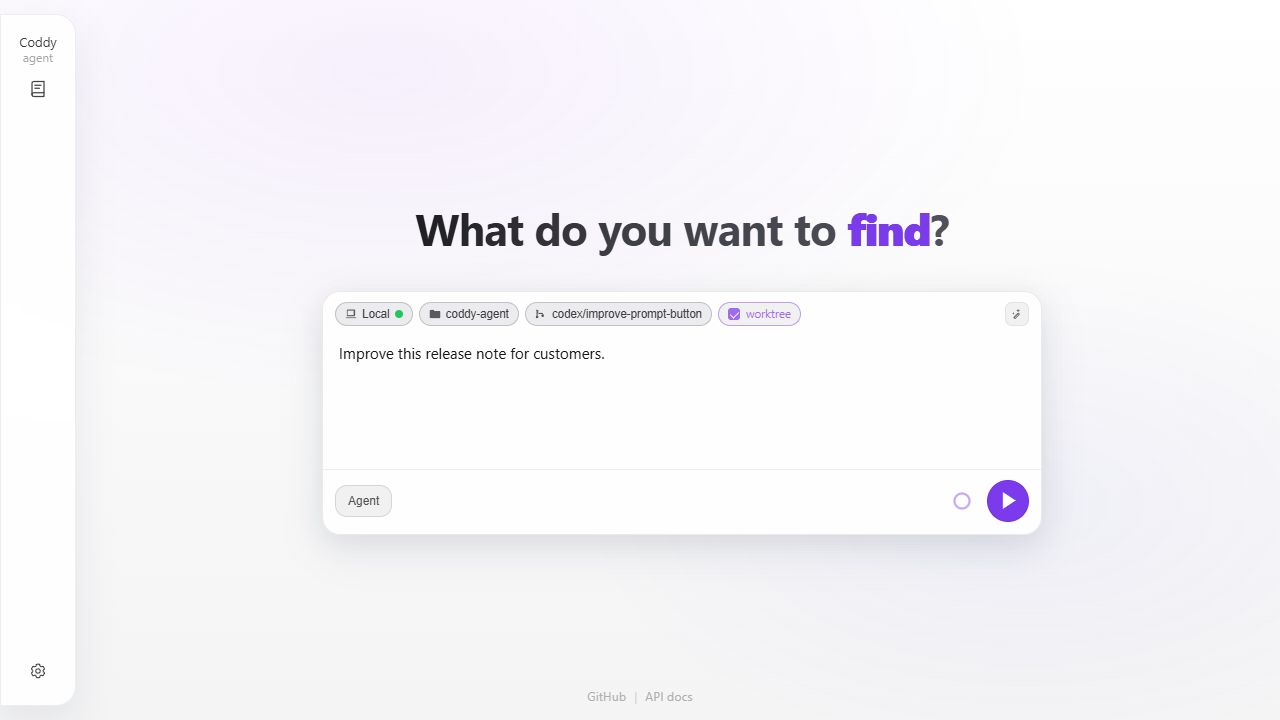
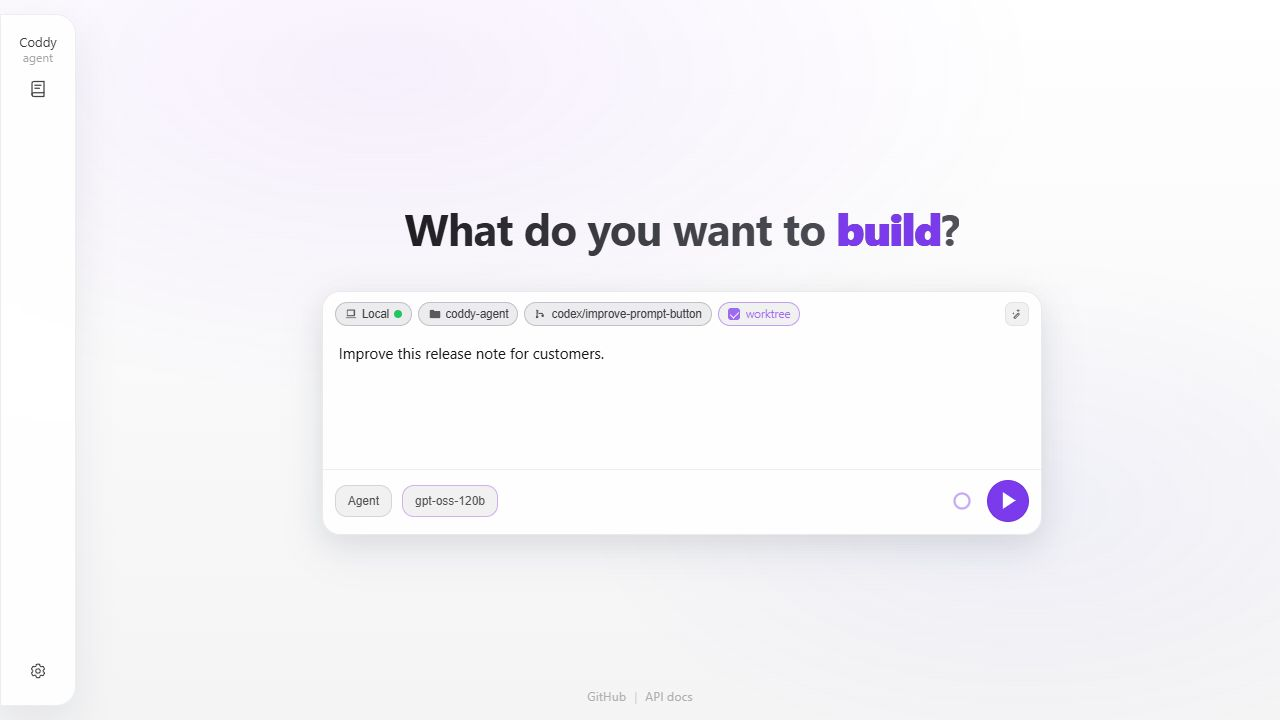
Pin mobile prompt improvement control

diff --git a/external/ui/src/ui/chat/composerEnhanceCss.test.ts b/external/ui/src/ui/chat/composerEnhanceCss.test.ts
@@ -19,3 +19,10 @@ test("prompt enhancement control is compact in the composer context row", () => 
   expect(block![1]).toMatch(/height:\s*24px/);
   expect(block![1]).not.toMatch(/position:\s*absolute/);
 });
+
+test("prompt enhancement control is pinned to the mobile context row's top-right", () => {
+  const css = cssText();
+  expect(css).toMatch(
+    /@media\s*\(max-width:\s*520px\)\s*\{\s*\.composer-context-row\s*\{[^}]*position:\s*relative[^}]*padding-right:\s*44px[^}]*\}\s*\.composer-enhance-btn\s*\{[^}]*position:\s*absolute[^}]*top:\s*10px[^}]*right:\s*12px/s,
+  );
+});

diff --git a/external/ui/src/styles.css b/external/ui/src/styles.css
@@ -3539,6 +3539,21 @@ textarea#composer {
 .composer-context-row > .composer-context-chips {
   padding: 0;
 }
+
+@media (max-width: 520px) {
+  .composer-context-row {
+    position: relative;
+    padding-right: 44px;
+  }
+
+  .composer-enhance-btn {
+    position: absolute;
+    top: 10px;
+    right: 12px;
+    margin-left: 0;
+  }
+}
+
 .workspace-chip-wrap {
   display: inline-flex;
 }

diff --git a/docs/ui.md b/docs/ui.md
@@ -195,7 +195,7 @@ Behavior (unchanged summary)
 
 - **Enter** submits when idle and not generating; **`Shift+Enter`** newline. No submit while **`generating`**.
 - **Stop**: **`POST /coddy/sessions/{id}/cancel`** + **`fetch`** **`AbortSignal`**. The server may append a **partial** assistant message for that turn. **`GET /coddy/sessions/{id}/messages`** can lag; the bundled UI merges server rows with local shadow or on-screen items (**`transcriptServerSnapshot.ts`**). Details in **`DESIGN.md`** (**Multi-session streaming and Stop**) and **`docs/http-api.md`**.
-- **Improve prompt**: the compact **24×24px** wand button (**`data-testid="composer-enhance-btn"`**) lives at the **right edge** of the workspace-context row, next to the Local / folder / branch / worktree controls — not in the textarea or lower composer bar. It has `title` and accessible name **`Improve prompt`**, is disabled for blank drafts and while a request or generation is active, calls **`POST /coddy/enhance-prompt`**, and replaces the draft only on success. **Ctrl+Z** / **⌘Z** restores the pre-improvement draft; a failure leaves it unchanged and displays an inline error.
+- **Improve prompt**: the compact **24×24px** wand button (**`data-testid="composer-enhance-btn"`**) lives at the **right edge** of the workspace-context row, next to the Local / folder / branch / worktree controls — not in the textarea or lower composer bar. At **≤520px**, it is pinned to that row's **top-right corner** above wrapped chips. It has `title` and accessible name **`Improve prompt`**, is disabled for blank drafts and while a request or generation is active, calls **`POST /coddy/enhance-prompt`**, and replaces the draft only on success. **Ctrl+Z** / **⌘Z** restores the pre-improvement draft; a failure leaves it unchanged and displays an inline error.
 
 Regression
 

diff --git a/DESIGN.md b/DESIGN.md
@@ -377,7 +377,7 @@ See **`.cursor/rules/ui-spa.mdc`** for the full wording.
 
 ### Prompt improvement control
 
-The prompt improvement control (**`data-testid="composer-enhance-btn"`**) is a compact **24×24px** icon button in the composer workspace-context row. It shares that row with the environment, folder, branch, and worktree controls, but is aligned to the **right edge** of the composer card; it never appears in the textarea or lower action bar. Its native tooltip and accessible name are both **`Improve prompt`**. It is disabled for a blank draft and while improving or generating; an active request spins the icon. Clicking it calls **`POST /coddy/enhance-prompt`**, replaces the draft only after a successful response, and leaves the original intact on failure. **Ctrl+Z** / **⌘Z** restores the immediately preceding draft after a successful improvement.
+The prompt improvement control (**`data-testid="composer-enhance-btn"`**) is a compact **24×24px** icon button in the composer workspace-context row. It shares that row with the environment, folder, branch, and worktree controls, but is aligned to the **right edge** of the composer card; at **≤520px** it is pinned to the row's **top-right corner**, so wrapped chips remain clear below it. It never appears in the textarea or lower action bar. Its native tooltip and accessible name are both **`Improve prompt`**. It is disabled for a blank draft and while improving or generating; an active request spins the icon. Clicking it calls **`POST /coddy/enhance-prompt`**, replaces the draft only after a successful response, and leaves the original intact on failure. **Ctrl+Z** / **⌘Z** restores the immediately preceding draft after a successful improvement.
 
 Composer mode selector
 
